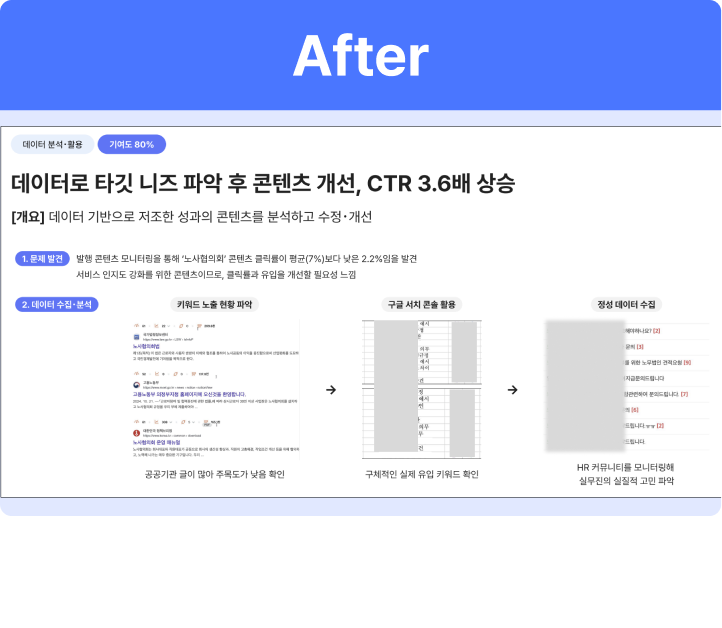
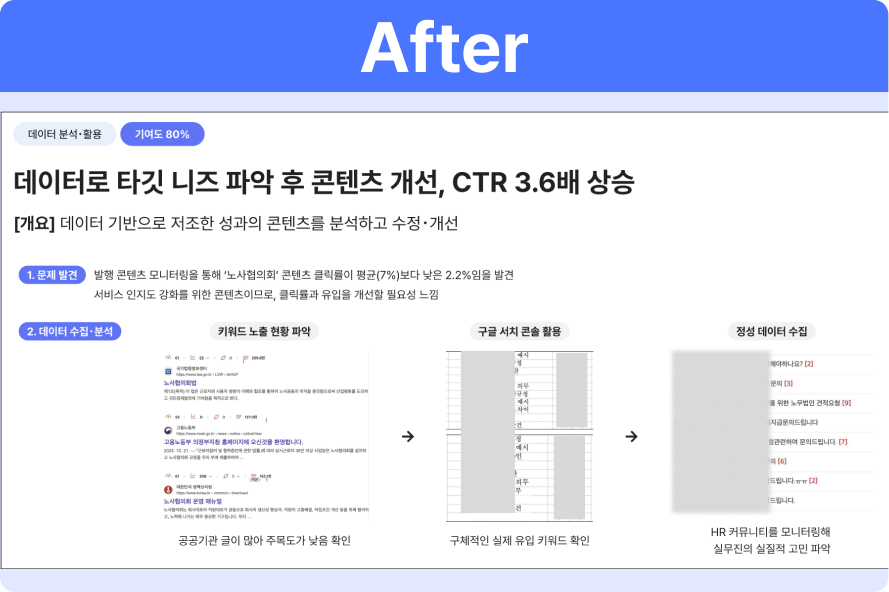
design(challenge-feedback): 비포 에프터 카드 수정

diff --git a/src/domain/challenge-feedback/components/BeforeAfterCard.tsx b/src/domain/challenge-feedback/components/BeforeAfterCard.tsx
@@ -20,29 +20,27 @@ const BeforeAfterCard = memo(function BeforeAfterCard({
   return (
     <div className="flex flex-1 flex-col items-center">
       {/* 라벨 */}
-      {isAfter && (
-        <div className="mb-4 rounded-md bg-[#7C6BFF] px-6 py-2 text-lg font-bold text-white md:text-xl">
-          After
-        </div>
-      )}
-      {!isAfter && (
-        <div className="mb-4 text-lg font-bold text-gray-300 md:text-xl">
-          Before
-        </div>
-      )}
+      <div
+        className={`mb-4 rounded-md px-6 py-2 text-lg font-bold md:text-xl ${
+          isAfter ? 'bg-[#7C6BFF] text-white' : 'bg-white/10 text-gray-300'
+        }`}
+      >
+        {isAfter ? 'After' : 'Before'}
+      </div>
 
       {/* 이미지 */}
       <button
         type="button"
         onClick={() => onImageClick(image, alt)}
-        className="group relative aspect-[4/3] w-full cursor-zoom-in overflow-hidden rounded-lg"
+        className="group relative w-full cursor-zoom-in overflow-hidden rounded-lg"
       >
         <Image
           src={image}
           alt={alt}
-          width={480}
-          height={360}
-          className="h-full w-full object-cover transition-transform duration-300 group-hover:scale-105"
+          width={700}
+          height={0}
+          className="h-auto w-full transition-transform duration-300 group-hover:scale-105"
+          sizes="(max-width: 768px) 100vw, 700px"
         />
         <div className="absolute inset-0 flex items-center justify-center bg-black/0 transition-colors duration-300 group-hover:bg-black/30">
           <div className="flex h-12 w-12 items-center justify-center rounded-full bg-white/20 opacity-0 backdrop-blur-sm transition-opacity duration-300 group-hover:opacity-100">

diff --git a/src/domain/challenge-feedback/sections/BeforeAfterSection.tsx b/src/domain/challenge-feedback/sections/BeforeAfterSection.tsx
@@ -52,7 +52,7 @@ const BeforeAfterSection = memo(function BeforeAfterSection({
           부족한 점은 채우고, 강조할 부분은 더 눈에 띄도록, 구조화된 서류로
           업그레이드 해보세요.
         </p>
-        <div className="mx-auto flex max-w-[1200px] flex-col gap-8 px-6 md:flex-row md:items-start md:gap-12">
+        <div className="mx-auto flex max-w-[1400px] flex-col gap-8 px-6 md:flex-row md:items-stretch md:gap-8">
           <BeforeAfterCard
             type="before"
             image={beforeAfter.beforeImage}
